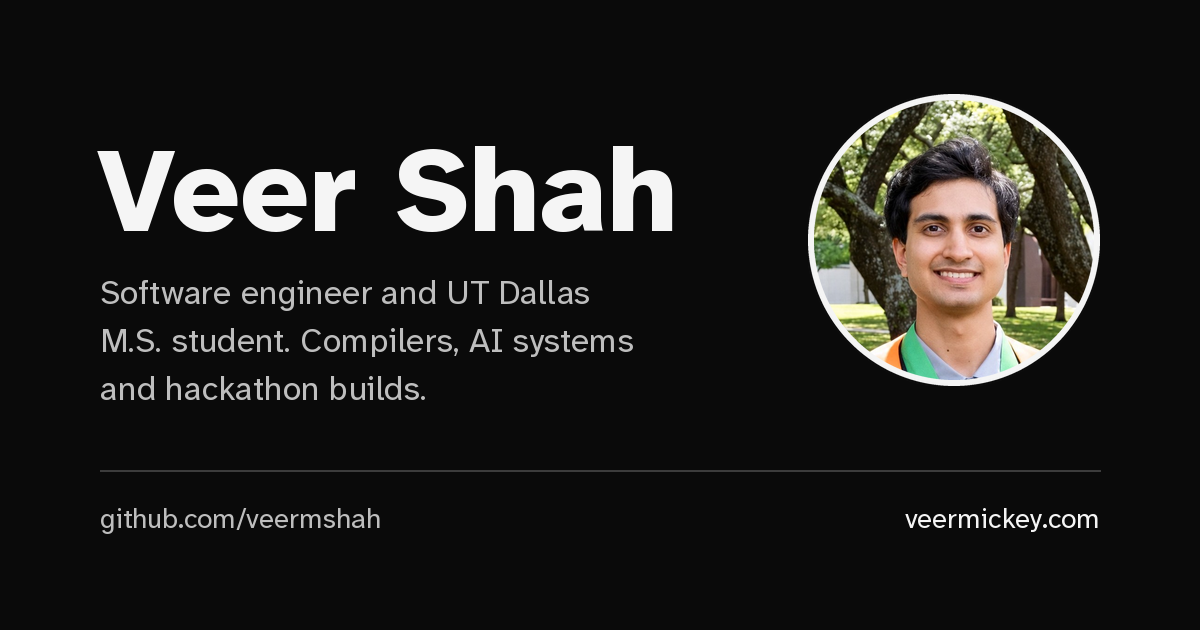
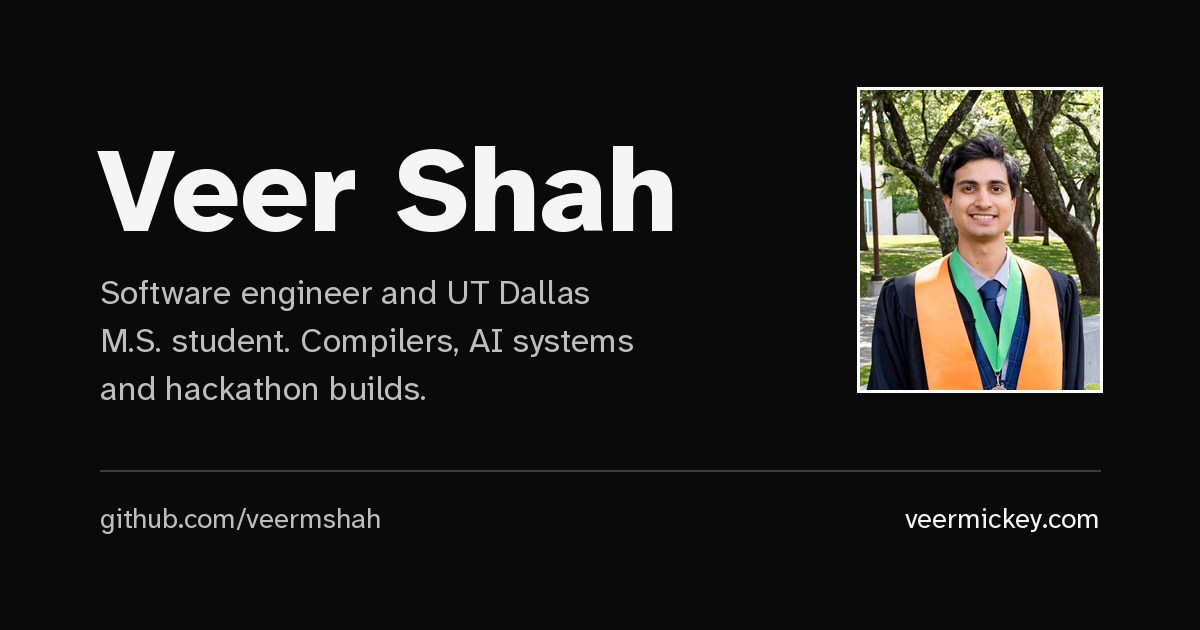
Photos back in colour, no circling, wider portrait
Veer meant no orange accent, not greyscale: hero, project and logo images
show in full colour again. The grease-pencil loops are removed everywhere;
picks are marked by size, hover underlines titles, the hero strip marks
the current photo with a white edge and the pager outlines this project.
The portrait is now head and shoulders at 4:5 from portrait-v2, and the
share image uses it.

Changed region(s): [[0.6475, 0.1206, 0.925, 0.6333]]

diff --git a/scripts/og.html b/scripts/og.html
@@ -15,7 +15,7 @@
   .foot b { font-weight: 400; color: #1c6b58; }
   .top { display: flex; justify-content: space-between; align-items: flex-start; gap: 48px; }
   .top p { max-width: 560px; font-size: 34px; }
-  .portrait { width: 300px; height: 300px; border-radius: 50%; object-fit: cover; border: 2px solid #e2e4e7; flex: none; }
+  .portrait { width: 240px; height: 300px; border-radius: 2px; object-fit: cover; border: 2px solid #e2e4e7; flex: none; }
 </style>
 </head>
 <body>

diff --git a/.impeccable/direction.md b/.impeccable/direction.md
@@ -1,13 +1,13 @@
 # Direction contract (site-wide, Experience mode)
 
-THESIS: The site is a photographer's contact sheet. Veer's work (projects and photos) is laid out as frames on a proof sheet, and his picks are circled by hand in grease pencil. It refuses the category default: a hero headline with a pill badge, a row of same-size rounded cards, section numbers, mono labels, an accent colour.
+THESIS: The site is a photographer's contact sheet. Veer's work (projects and photos) is laid out as frames on a proof sheet, and his picks are simply larger. It refuses the category default: a hero headline with a pill badge, a row of same-size rounded cards, section numbers, mono labels, an accent colour.
 
-OWN-WORLD: Black and white only (white paper #fff / film black #0a0a0a, greys #525252 and #a3a3a3, rules #e5e5e5 / #262626). Colour comes only from photographs and project images. Square corners. One face, Atkinson Hyperlegible Next, set heavy and tight for display (max 6rem, tracking no tighter than -0.04em), plain for text. No mono except for code. Frames sit edge to edge with thin gutters like a contact strip; hand-drawn grease-pencil loops (src/components/GreaseLoop.astro, stroke currentColor) mark selects. Buttons are flat black or white rectangles with a 1px border that invert on hover.
+OWN-WORLD: A neutral interface with no accent colour (white paper #fff / film black #0a0a0a, greys #525252 and #a3a3a3, rules #e5e5e5 / #262626). Photographs and project images stay in full colour. Square corners. One face, Atkinson Hyperlegible Next, set heavy and tight for display (max 6rem, tracking no tighter than -0.04em), plain for text. No mono except for code. Frames sit edge to edge with thin gutters like a contact strip; selects are shown larger. Buttons are flat black or white rectangles with a 1px border that invert on hover.
 
-STORY: In one viewport the visitor sees Veer's own photo full bleed in black and white, his name forming out of dots, his portrait and a two-line bio, and one plain action (Email me). Scrolling, they see his selected projects circled on the sheet, then every project as a frame, then experience, education and skills as set text. They open a project, read it, and move to the next frame.
+STORY: In one viewport the visitor sees Veer's own photo full bleed in colour, his name forming out of dots, his portrait and a two-line bio, and one plain action (Email me). Scrolling, they see his selected projects as large frames, then every project as a frame, then experience, education and skills as set text. They open a project, read it, and move to the next frame.
 
-FIRST VIEWPORT: Full-bleed greyscale photo crossfade behind everything. Round portrait (5.5rem phone, 7rem desktop) top left, the dot name below it at display size, the bio full width under it, then Email me and the profile links. Credit line bottom right.
+FIRST VIEWPORT: Full-bleed colour photo crossfade behind everything. Head-and-shoulders 4:5 portrait (7.5rem phone, 10rem desktop) top left, the dot name below it at display size, the bio full width under it, then Email me and the profile links. Credit line bottom right.
 
-FORM: seed: none (pinned) "keep everything black and white", "i like having both combined" (photos + dot name), "make the website just more memorable overall".
+FORM: seed: none (pinned) "keep everything black and white" (later clarified: no orange accent, photos stay in colour; no circling), "i like having both combined" (photos + dot name), "make the website just more memorable overall".
 
 FINISH: unreviewed and undocumented is unfinished; this build ends with the finish review, the verdict, DESIGN.md, and every shipping raster carrying its provenance

diff --git a/DESIGN.md b/DESIGN.md
@@ -1,23 +1,24 @@
 # Design
 
-The site is a photographer's contact sheet: Veer's projects and photos are frames on a proof sheet, and his picks are circled by hand in grease pencil. The direction contract is in `.impeccable/direction.md`.
+The site is a photographer's contact sheet: Veer's projects and photos are full-colour frames laid edge to edge, with his picks shown larger. The direction contract is in `.impeccable/direction.md`.
 
 ## Colour
-Black and white only. Colour on the page comes from photographs and project images, never from the interface.
+A neutral black and white interface with no accent colour. Photographs and project images stay in full colour.
 - Light: `--bg #ffffff`, `--ink #0a0a0a`, `--muted #525252`, `--rule #e5e5e5`, `--accent-soft #f2f2f2`
 - Dark: `--bg #0a0a0a`, `--ink #f5f5f5`, `--muted #a3a3a3`, `--rule #262626`, `--accent-soft #1a1a1a`
-- `--accent` is the ink colour. Hero photos are greyscale; project frames on the home sheet are greyscale until hovered, focused or scrolled into the middle of a phone screen.
+- `--accent` is the ink colour. No image is desaturated.
 
 ## Type
 One face, Atkinson Hyperlegible Next. Display 800 weight, tracking no tighter than -0.04em, at most 6rem (`--step-display`). No monospace outside code.
 
 ## Shapes and parts
 - Square corners (`--radius: 2px`). Buttons are flat rectangles with a 1px ink border that invert on hover.
-- `src/components/GreaseLoop.astro`: the hand-drawn loop. It draws on hover or focus of a `.loop-host` ancestor, or stays drawn with `selected`. An underlay in the page colour keeps it readable on any image.
+- Selected work is marked by size alone. Hover and focus underline a frame's title; the current item is an ink outline (pager) or a white edge (hero strip).
+- The portrait is head and shoulders at 4:5 with a thin white edge.
 - Frames sit edge to edge with 3px gutters on film black.
 
 ## Motion
-One authored moment per surface: the dot name forming in the hero, and the loop drawing round a frame. No generic scroll reveals. Reduced motion turns off the crossfade, the dots and the loop drawing.
+One authored moment: the dot name forming in the hero. No generic scroll reveals. Reduced motion turns off the crossfade and the dots.
 
 ## Bans kept
 No eyebrow or kicker labels, no section numbers, no pills or status dots, no glass, no gradient text, no hard offset shadows, no emoji or glyph icons.

diff --git a/README.md b/README.md
@@ -88,7 +88,7 @@ The `featured` list in `src/pages/index.astro` selects the home-page highlights 
 
 ## Home hero
 
-The hero (`src/components/Hero.astro`) shows up to five of my most popular landscape photos from Unsplash full-bleed behind my name, crossfading every 7 seconds in black and white, with the dot field (`src/scripts/hero-field.ts`) gathering into the name on top. It uses the same build-time fetch as the photography page; without `UNSPLASH_ACCESS_KEY` it uses the landscape photos in `src/assets/photos/`. Only the first photo loads with the page; the rest load after it, and not at all with Save-Data or on 2G/3G. Dots scatter from the mouse or a finger and spring back. With reduced motion, no JavaScript or no canvas, the hero is the first photo with the plain `<h1>`. The real `<h1>` is always in the HTML.
+The hero (`src/components/Hero.astro`) shows up to five of my most popular landscape photos from Unsplash full-bleed behind my name, crossfading every 7 seconds, with the dot field (`src/scripts/hero-field.ts`) gathering into the name on top. It uses the same build-time fetch as the photography page; without `UNSPLASH_ACCESS_KEY` it uses the landscape photos in `src/assets/photos/`. Only the first photo loads with the page; the rest load after it, and not at all with Save-Data or on 2G/3G. Dots scatter from the mouse or a finger and spring back. With reduced motion, no JavaScript or no canvas, the hero is the first photo with the plain `<h1>`. The real `<h1>` is always in the HTML.
 
 ### Portrait
 
